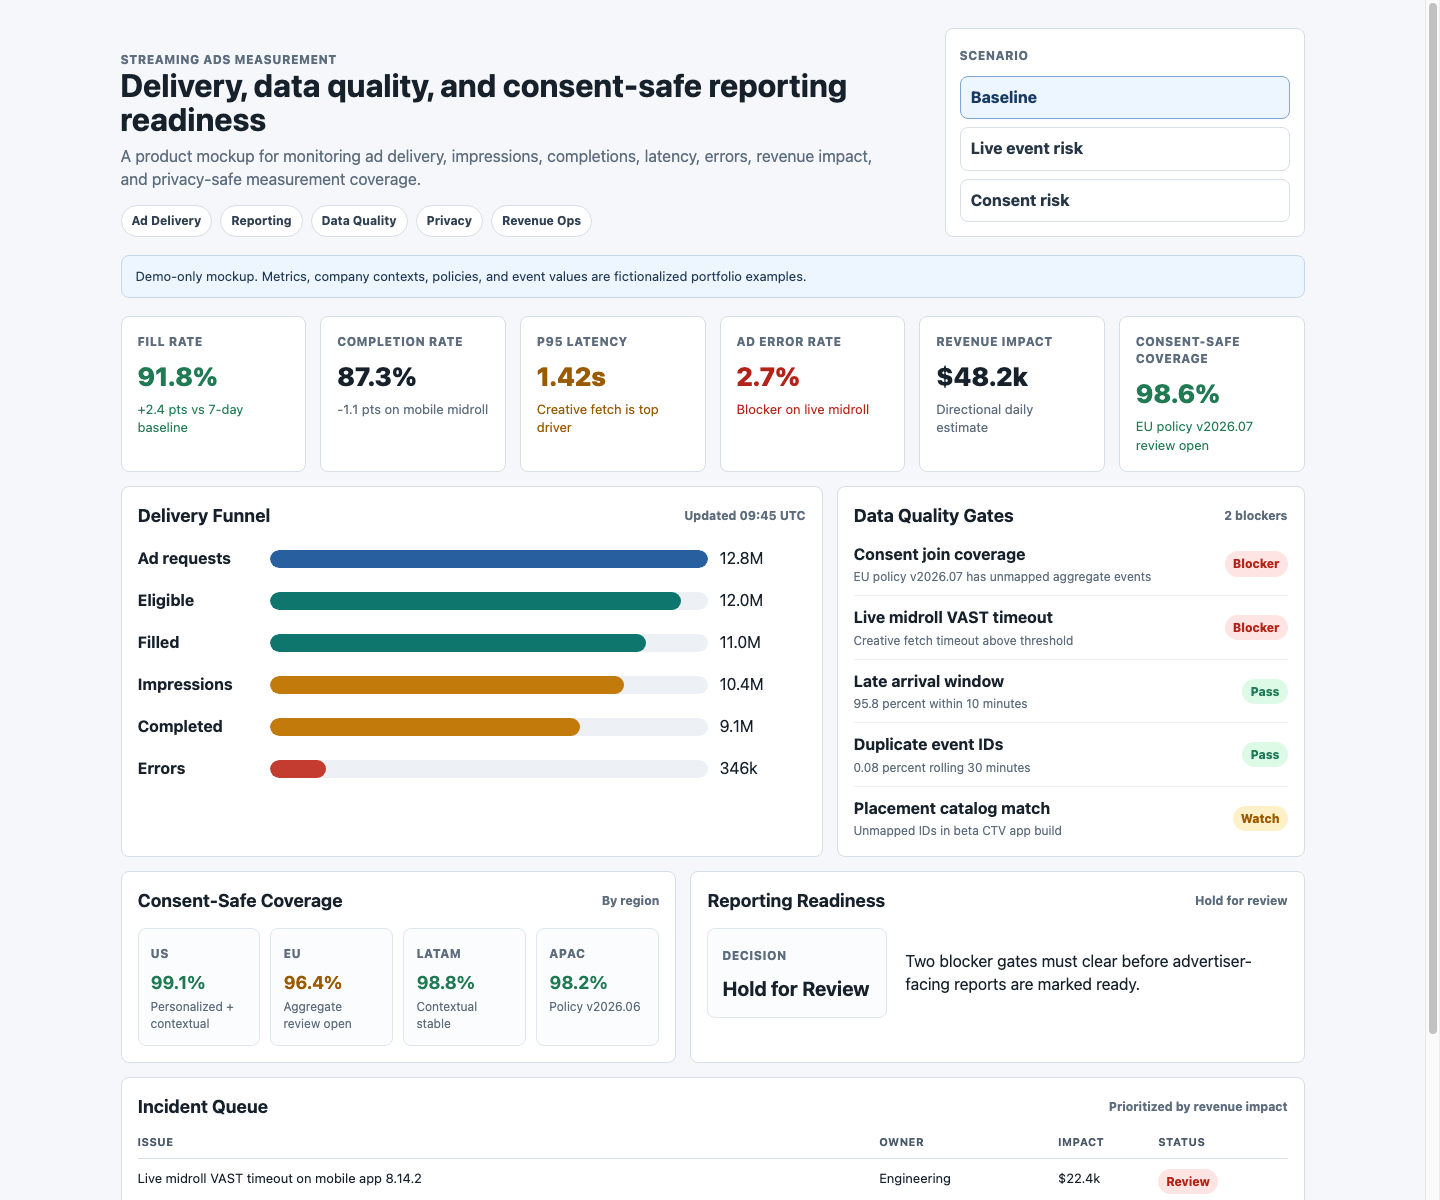
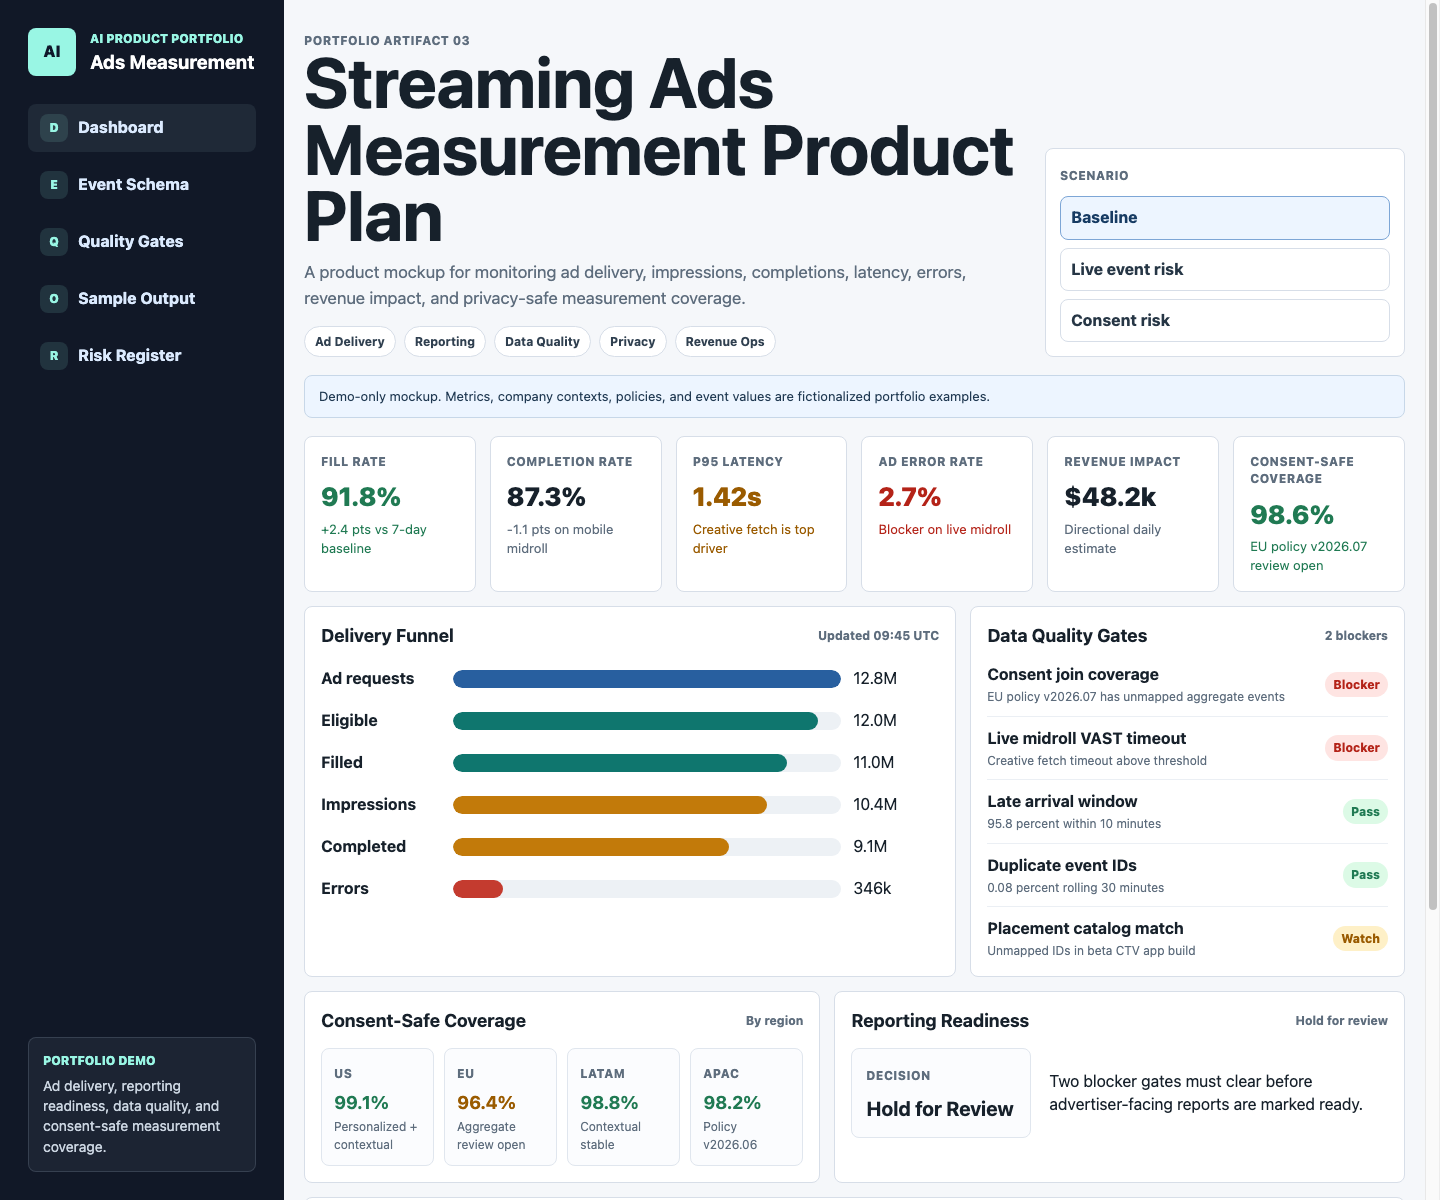
Align streaming ads portfolio header

diff --git a/03_streaming_ads_measurement_product_plan/styles.css b/03_streaming_ads_measurement_product_plan/styles.css
@@ -36,11 +36,124 @@ button {
   font: inherit;
 }
 
+.presentation-shell {
+  display: grid;
+  grid-template-columns: 284px minmax(0, 1fr);
+  width: 100%;
+  max-width: 100vw;
+  min-height: 100vh;
+}
+
+.portfolio-rail {
+  position: sticky;
+  top: 0;
+  height: 100vh;
+  display: flex;
+  flex-direction: column;
+  gap: 28px;
+  padding: 28px;
+  color: #dbeafe;
+  background: #111827;
+}
+
+.rail-brand {
+  display: flex;
+  align-items: center;
+  gap: 14px;
+}
+
+.rail-mark {
+  display: grid;
+  place-items: center;
+  width: 48px;
+  height: 48px;
+  border-radius: 8px;
+  color: #0f172a;
+  background: #99f6e4;
+  font-weight: 900;
+}
+
+.rail-brand p {
+  margin: 0 0 5px;
+  color: #99f6e4;
+  font-size: 12px;
+  font-weight: 850;
+  text-transform: uppercase;
+}
+
+.rail-brand strong {
+  display: block;
+  color: #ffffff;
+  font-size: 19px;
+  line-height: 1.15;
+}
+
+.rail-nav {
+  display: grid;
+  gap: 9px;
+}
+
+.rail-nav a {
+  display: flex;
+  align-items: center;
+  gap: 10px;
+  min-height: 44px;
+  padding: 10px 12px;
+  border-radius: 8px;
+  color: #dbeafe;
+  text-decoration: none;
+  font-weight: 750;
+  overflow-wrap: anywhere;
+}
+
+.rail-nav a.active,
+.rail-nav a:hover,
+.rail-nav a:focus-visible {
+  background: #1f2937;
+  outline: none;
+}
+
+.rail-nav span {
+  display: grid;
+  place-items: center;
+  flex: 0 0 28px;
+  width: 28px;
+  height: 28px;
+  border-radius: 8px;
+  color: #99f6e4;
+  background: rgba(153, 246, 228, 0.12);
+  font-size: 12px;
+  font-weight: 900;
+}
+
+.rail-note {
+  margin-top: auto;
+  padding: 14px;
+  border: 1px solid rgba(219, 234, 254, 0.14);
+  border-radius: 8px;
+  background: rgba(31, 41, 55, 0.76);
+}
+
+.rail-note p {
+  margin: 0 0 6px;
+  color: #99f6e4;
+  font-size: 12px;
+  font-weight: 850;
+  text-transform: uppercase;
+}
+
+.rail-note span {
+  display: block;
+  color: #cbd5e1;
+  font-size: 14px;
+  line-height: 1.45;
+}
+
 .shell {
   width: 100%;
-  max-width: 1240px;
+  max-width: 1180px;
   margin: 0 auto;
-  padding: 28px;
+  padding: 32px 20px 48px;
   overflow-x: hidden;
 }
 
@@ -61,8 +174,9 @@ p {
 
 h1 {
   max-width: 820px;
-  font-size: 32px;
-  line-height: 1.08;
+  margin-bottom: 10px;
+  font-size: clamp(36px, 5vw, 70px);
+  line-height: .95;
   letter-spacing: 0;
   overflow-wrap: anywhere;
   word-break: break-word;
@@ -80,8 +194,10 @@ h1 {
 
 .subtitle {
   color: var(--muted);
-  margin-top: 8px;
+  margin-top: 0;
   max-width: 780px;
+  font-size: 17px;
+  line-height: 1.55;
   overflow-wrap: anywhere;
   word-break: break-word;
 }
@@ -386,6 +502,26 @@ tr:last-child td {
 }
 
 @media (max-width: 980px) {
+  .presentation-shell {
+    grid-template-columns: 1fr;
+  }
+
+  .portfolio-rail {
+    position: static;
+    height: auto;
+    padding: 18px;
+  }
+
+  .rail-note {
+    display: none;
+  }
+
+  .shell {
+    width: 100%;
+    max-width: 100vw;
+    padding: 26px 20px 44px;
+  }
+
   .page-header,
   .main-grid,
   .lower-grid,
@@ -409,7 +545,8 @@ tr:last-child td {
   }
 
   h1 {
-    font-size: 24px;
+    font-size: 30px;
+    line-height: 1.08;
     max-width: 310px;
   }
 

diff --git a/03_streaming_ads_measurement_product_plan/index.html b/03_streaming_ads_measurement_product_plan/index.html
@@ -7,11 +7,50 @@
   <link rel="stylesheet" href="styles.css">
 </head>
 <body>
+  <div class="presentation-shell">
+    <aside class="portfolio-rail" aria-label="Portfolio navigation">
+      <div class="rail-brand">
+        <span class="rail-mark">AI</span>
+        <div>
+          <p>AI Product Portfolio</p>
+          <strong>Ads Measurement</strong>
+        </div>
+      </div>
+
+      <nav class="rail-nav" aria-label="Streaming ads project artifacts">
+        <a class="active" href="index.html">
+          <span>D</span>
+          Dashboard
+        </a>
+        <a href="event_schema.json">
+          <span>E</span>
+          Event Schema
+        </a>
+        <a href="data_quality_checks.md">
+          <span>Q</span>
+          Quality Gates
+        </a>
+        <a href="sample_output.md">
+          <span>O</span>
+          Sample Output
+        </a>
+        <a href="risk_register.csv">
+          <span>R</span>
+          Risk Register
+        </a>
+      </nav>
+
+      <div class="rail-note">
+        <p>Portfolio demo</p>
+        <span>Ad delivery, reporting readiness, data quality, and consent-safe measurement coverage.</span>
+      </div>
+    </aside>
+
   <main class="shell">
     <header class="page-header">
       <div>
-        <p class="eyebrow">Streaming ads measurement</p>
-        <h1>Delivery, data quality, and consent-safe reporting readiness</h1>
+        <p class="eyebrow">Portfolio Artifact 03</p>
+        <h1>Streaming Ads Measurement Product Plan</h1>
         <p class="subtitle">A product mockup for monitoring ad delivery, impressions, completions, latency, errors, revenue impact, and privacy-safe measurement coverage.</p>
         <div class="badge-row" aria-label="Product areas">
           <span class="badge">Ad Delivery</span>
@@ -128,6 +167,7 @@
       </table>
     </section>
   </main>
+  </div>
   <script src="app.js"></script>
 </body>
 </html>